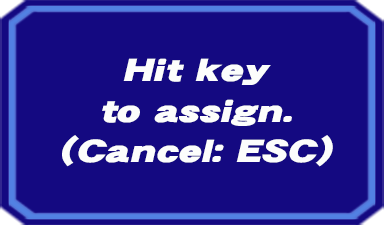
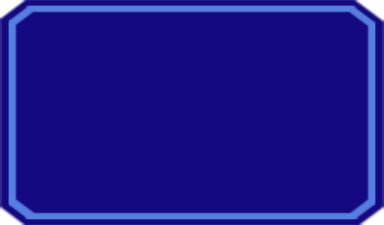
#35906 起動画面の警告表示と、キーアサイン変更時の「Hit key to assign」を、多国語対応した。(文言修正時は、System/resrouces.csvを変更のこと) これで、言語リソース分離の残件は、以下のみとなった。  * まだ選曲画面左上の操作案内が、日本語と英語固定 (文言が画像埋め込み)

diff --git a/DTXMania/コード/ステージ/01.起動/CStage起動.cs b/DTXMania/コード/ステージ/01.起動/CStage起動.cs
@@ -2,6 +2,7 @@
 using System.Collections.Generic;
 using System.Text;
 using System.Diagnostics;
+using System.Drawing;
 using System.Threading;
 using System.IO;
 using FDK;
@@ -68,7 +69,46 @@ namespace DTXMania
 		{
 			if (!base.b活性化してない)
 			{
-				this.tx背景 = TextureFactory.tテクスチャの生成(CSkin.Path(@"Graphics\ScreenSetup background.jpg"), false);
+				#region [ 警告画面の文章描画 ]
+				string strTitleCautionHead = CDTXMania.Instance.Resources.Label("strTitleCaution");
+				string strTitleCautionStr  = CDTXMania.Instance.Resources.Explanation("strTitleCaution");
+				string fontPath = CDTXMania.Instance.Resources.Explanation("strCfgBaseFontFileName");
+
+				var prvFont = new CPrivateFastFont(CSkin.Path( Path.Combine(@"Graphics\fonts\", fontPath)), 40);
+				
+				var bmp = new Bitmap(CSkin.Path(@"Graphics\ScreenSetup background.jpg"));
+
+
+				var bmpCaution = prvFont.DrawPrivateFont( strTitleCautionHead, Color.White, Color.Black);
+				var strComments = strTitleCautionStr.Split(new string[] { "\n" }, StringSplitOptions.None );
+
+				Graphics g = Graphics.FromImage(bmp);
+
+				g.DrawImage(bmpCaution, (bmp.Width - bmpCaution.Width) / 2, 298);       // "WARNING" 描画
+				bmpCaution.Dispose();
+				bmpCaution = null;
+
+				int y = 380;
+				foreach (var s in strComments)											// 警告文面 描画
+				{
+					string ss = s.Trim();
+					var b = prvFont.DrawPrivateFont(ss, Color.White, Color.FromArgb(0, 6, 255));
+					int x = (bmp.Width - b.Width) / 2;
+					g.DrawImage(b, x, y);
+					b.Dispose();
+
+					y += prvFont.RectStrings.Height;
+				}
+				g.Dispose();
+				prvFont.Dispose();
+				prvFont = null;
+
+				this.tx背景 = TextureFactory.tテクスチャの生成(bmp);
+
+				bmp.Dispose();
+				bmp = null;
+				#endregion
+
 				base.OnManagedリソースの作成();
 			}
 		}

diff --git a/DTXMania/コード/ステージ/04.コンフィグ/CActConfigKeyAssign.cs b/DTXMania/コード/ステージ/04.コンフィグ/CActConfigKeyAssign.cs
@@ -3,6 +3,7 @@ using System.Collections.Generic;
 using System.Text;
 using System.Runtime.InteropServices;
 using System.Drawing;
+using System.IO;
 using FDK;
 using SharpDX;
 
@@ -112,7 +113,38 @@ namespace DTXMania
 			{
 				this.prvFont = new CPrivateFastFont(CSkin.Path(@"Graphics\fonts\mplus-1p-heavy.ttf"), (int)(18 * Scale.Y)); // t項目リストの設定 の前に必要
 				this.txカーソル = TextureFactory.tテクスチャの生成(CSkin.Path(@"Graphics\ScreenConfig menu cursor.png"), false);
-				this.txHitKeyダイアログ = TextureFactory.tテクスチャの生成(CSkin.Path(@"Graphics\ScreenConfig hit key to assign dialog.png"), false);
+
+				#region [ Hit key to assign ダイアログイメージ作成 ]
+				string fontPath = CDTXMania.Instance.Resources.Explanation("strCfgBaseFontFileName");
+				var prvFont = new CPrivateFastFont(CSkin.Path(Path.Combine(@"Graphics\fonts\", fontPath)), 30, FontStyle.Bold);
+				var bmp = new Bitmap(CSkin.Path(@"Graphics\ScreenConfig hit key to assign dialog.png"));
+
+				string strHitKey = CDTXMania.Instance.Resources.Explanation("strCfgHitKeyToAssign");
+				var strComments = strHitKey.Split(new string[] { "\n" }, StringSplitOptions.None);
+
+				Graphics g = Graphics.FromImage(bmp);
+
+				int y = 20;
+				foreach (var s in strComments)
+				{
+					string ss = s.Trim();
+					var b = prvFont.DrawPrivateFont(ss, Color.White);
+					int x = (bmp.Width - b.Width) / 2;
+					g.DrawImage(b, x, y);
+					b.Dispose();
+
+					y += prvFont.RectStrings.Height;
+				}
+				g.Dispose();
+				prvFont.Dispose();
+				prvFont = null;
+
+				this.txHitKeyダイアログ = TextureFactory.tテクスチャの生成(bmp, false);
+
+				bmp.Dispose();
+				bmp = null;
+				#endregion
+
 				base.OnManagedリソースの作成();
 			}
 		}

diff --git a/DTXMania/Properties/AssemblyInfo.cs b/DTXMania/Properties/AssemblyInfo.cs
@@ -33,8 +33,8 @@ using System.Resources;
 // すべての値を指定するか、下のように '*' を使ってビルドおよびリビジョン番号を 
 // 既定値にすることができます:
 // [assembly: AssemblyVersion("1.0.*")]
-[assembly: AssemblyVersion( "108.0.0.0" )]
-[assembly: AssemblyFileVersion( "108.0.0.0" )]
+[assembly: AssemblyVersion("109.0.0.0")]
+[assembly: AssemblyFileVersion("109.0.0.0")]
 [assembly: NeutralResourcesLanguageAttribute("ja-JP")]
 
 // このアセンブリは「ライブラリ」である（難読化ツールへの指示）。

diff --git a/DTXMania/コード/全体/CDTXMania.cs b/DTXMania/コード/全体/CDTXMania.cs
@@ -23,7 +23,7 @@ namespace DTXMania
 	{
 		// プロパティ
 		#region [ properties ]
-		public static readonly string VERSION = "108+(170506)";
+		public static readonly string VERSION = "109(170701)";
 		public static readonly string SLIMDXDLL = "c_net20x86_Jun2010";
 		public static readonly string D3DXDLL = "d3dx9_43.dll";     // June 2010
 																																//public static readonly string D3DXDLL = "d3dx9_42.dll";	// February 2010
